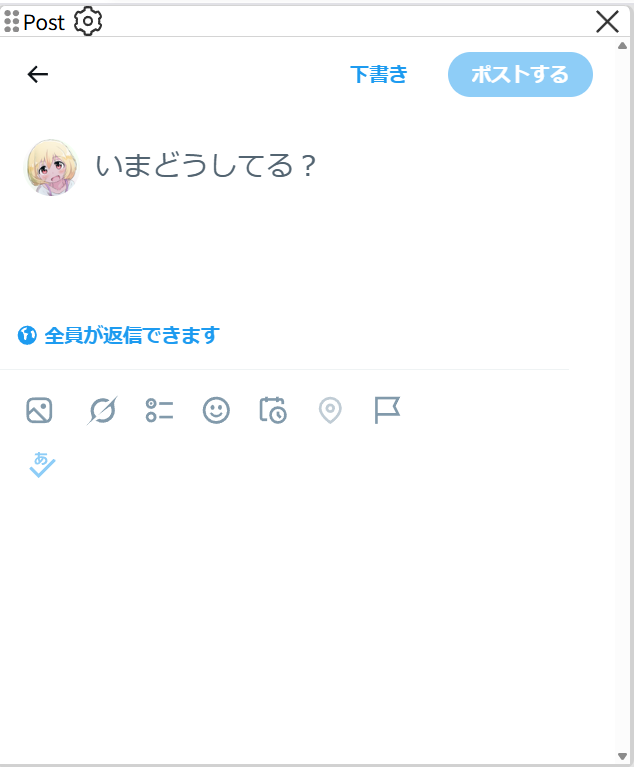
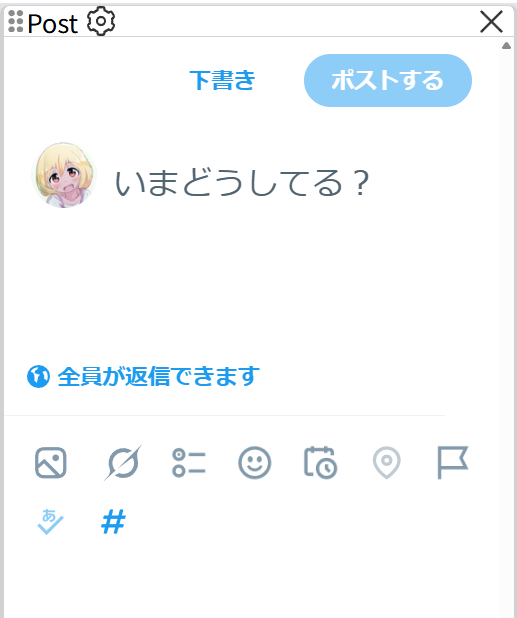
ポストカラムのハッシュタグ埋め込み機能を追加

diff --git a/docs/common/hashtag-embed.md b/docs/common/hashtag-embed.md
@@ -1,0 +1,51 @@
+---
+sidebar_position: 7
+---
+
+# ハッシュタグ埋め込み機能
+
+<img src="/Open-Deck-Wiki/img/screenshot/hashtag_restore.gif" height="300" />
+
+直前に投稿で使ったハッシュタグを記憶しておき、次の投稿の **末尾にワンクリックでまとめて挿入** できる機能です。  
+現在は **試作版** として提供しています。
+
+---
+
+## どんな機能？
+
+Post カラムの投稿ボタンの近くに **ハッシュタグ埋め込みボタン** ( <img src="/Open-Deck-Wiki/img/opd_icons/hashtag_restore.svg" width="16" /> ) が表示されます。  
+投稿に含まれていたハッシュタグを自動的に覚えておき、新しい投稿を書くときにボタンを押すだけで、それらのタグを本文の末尾にまとめて挿入できます。
+
+配信やアニメ、カンファレンスのセッションを実況する時など、  
+同じハッシュタグを利用するシーンでタグを毎回入力し直す手間を省けます。
+
+---
+
+## 使い方
+
+### 1. ハッシュタグを含む投稿を作成する
+
+いつもどおり Post カラムでハッシュタグ付きの投稿をします。  
+投稿が完了したタイミングで、その投稿に含まれていたハッシュタグが自動的に記憶されます。
+
+### 2. 次の投稿画面でボタンをクリックする
+
+記憶されたハッシュタグがあるときだけ、埋め込みボタンが有効になります（記憶がないときは無効状態です）。  
+ボタンをクリックすると、いま入力しているテキストエリアの末尾に、記憶したハッシュタグがまとめて挿入されます。
+
+| ボタンの状態 | 意味 |
+|---|---|
+| 有効 | 記憶されたハッシュタグがある（クリックで挿入できます） |
+| 無効 | 記憶されたハッシュタグがない |
+
+### 3. 記憶を削除する
+
+ボタンが有効な状態で、**Alt** キーを押しながらボタンをクリックすると、記憶したハッシュタグを削除できます。  
+確認ダイアログが表示されるので、問題なければそのまま削除してください。削除後はボタンが無効状態に戻ります。
+
+---
+
+## 制限事項
+
+- ハッシュタグは投稿が完了したタイミングで記憶されます（書いている途中では更新されません）
+- 機能の仕様・挙動は試作版のため、予告なく変更・改善される場合があります

diff --git a/docs/common/media-viewer.md b/docs/common/media-viewer.md
@@ -1,5 +1,5 @@
 ---
-sidebar_position: 7
+sidebar_position: 8
 ---
 
 # メディアビューワー
